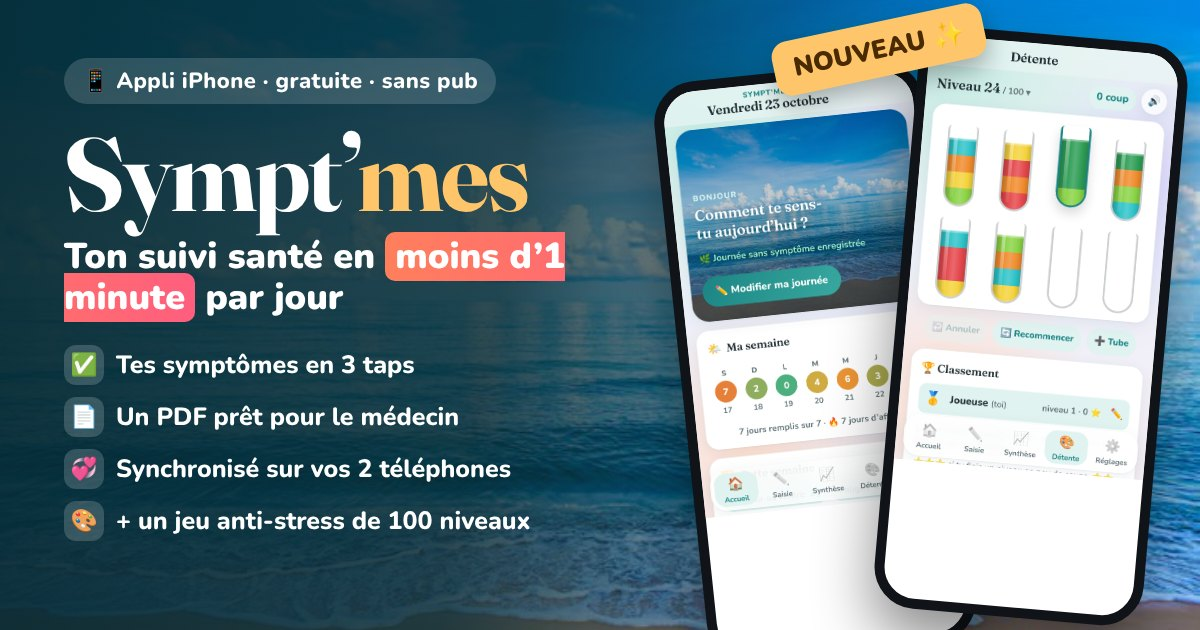
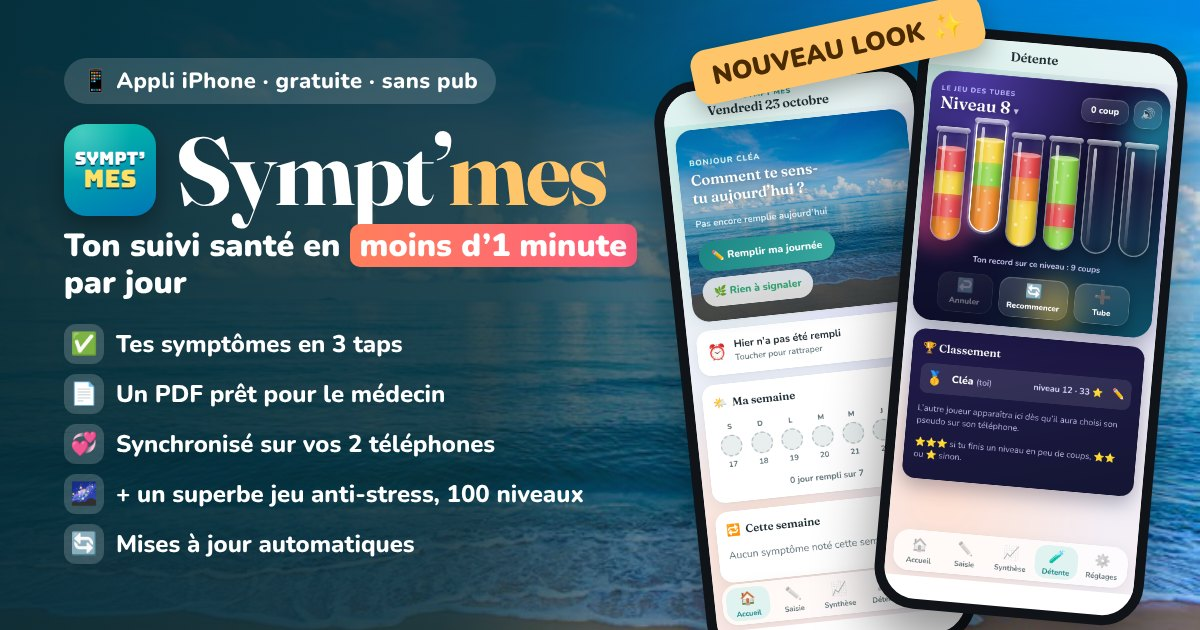
Mises à jour appliquées automatiquement et nouvelle image d'aperçu du lien
- La nouvelle version se recharge toute seule si l'appli vient d'être ouverte
  ou est en arrière-plan ; sinon le bandeau s'affiche et elle s'applique dès
  qu'on quitte l'appli. Vérification aussi toutes les 15 minutes.
- Image d'aperçu refaite (nouvelle icône, nouveau look du jeu), ?v=2 pour
  forcer les messageries à la recharger.

Claude-Session: https://claude.ai/code/session_01A8bavgA94itZTsSni86D7b

diff --git a/js/app.js b/js/app.js
@@ -63,9 +63,7 @@ function renderStatus(st) {
 // Re-rendu après des données reçues de l'autre téléphone, sans gêner la saisie
 let pendingRender = false;
 function safeRender() {
-  const a = document.activeElement;
-  const typing = a && (a.tagName === 'TEXTAREA' || (a.tagName === 'INPUT' && a.type !== 'checkbox'));
-  if (typing || sheetOpen()) { pendingRender = true; return; }
+  if (isTyping() || sheetOpen()) { pendingRender = true; return; }
   pendingRender = false;
   const y = window.scrollY;
   render();
@@ -113,17 +111,36 @@ function startApp() {
 }
 
 // Mises à jour : sur iPhone, l'appli installée reste souvent ouverte en arrière-plan
-// avec l'ancienne version. À chaque retour dans l'appli on vérifie s'il y a du nouveau ;
-// si oui, un bandeau propose de recharger (les données sont déjà enregistrées).
+// avec l'ancienne version. On vérifie au retour dans l'appli et toutes les 15 min.
+// La nouvelle version s'applique toute seule (les données sont déjà enregistrées) :
+// tout de suite si l'appli vient d'être ouverte ou est en arrière-plan, sinon dès qu'on la quitte.
+// Le bandeau reste proposé pour l'appliquer sans attendre.
+const isTyping = () => {
+  const a = document.activeElement;
+  return !!a && (a.tagName === 'TEXTAREA' || (a.tagName === 'INPUT' && a.type !== 'checkbox'));
+};
+
 function setupUpdates() {
   if (!('serviceWorker' in navigator)) return;
   const hadController = !!navigator.serviceWorker.controller;
+  let shownAt = Date.now();
+  let reloadPending = false;
   navigator.serviceWorker.register('./sw.js').then((reg) => {
     if (!reg) return;
-    document.addEventListener('visibilitychange', () => { if (!document.hidden) reg.update().catch(() => {}); });
+    const check = () => reg.update().catch(() => {});
+    document.addEventListener('visibilitychange', () => {
+      if (document.hidden) { if (reloadPending) location.reload(); return; }
+      shownAt = Date.now();
+      check();
+    });
+    setInterval(() => { if (!document.hidden) check(); }, 15 * 60 * 1000);
   }).catch(() => {});
   navigator.serviceWorker.addEventListener('controllerchange', () => {
-    if (hadController) showUpdateBanner();
+    if (!hadController) return;
+    const justOpened = Date.now() - shownAt < 20 * 1000;
+    if (document.hidden || (justOpened && !isTyping() && !sheetOpen())) { location.reload(); return; }
+    reloadPending = true;
+    showUpdateBanner();
   });
   $('#update-btn').addEventListener('click', () => location.reload());
 }

diff --git a/index.html b/index.html
@@ -16,12 +16,12 @@
   <meta property="og:title" content="Sympt'mes : ton suivi santé en moins d’1 minute par jour">
   <meta property="og:description" content="Symptômes en 3 taps, PDF prêt pour le médecin, synchronisé sur vos 2 téléphones… et un jeu anti-stress.">
   <meta property="og:url" content="https://khylianb.github.io/sympt-mes/">
-  <meta property="og:image" content="https://khylianb.github.io/sympt-mes/img/apercu.jpg">
+  <meta property="og:image" content="https://khylianb.github.io/sympt-mes/img/apercu.jpg?v=2">
   <meta property="og:image:width" content="1200">
   <meta property="og:image:height" content="630">
   <meta property="og:locale" content="fr_FR">
   <meta name="twitter:card" content="summary_large_image">
-  <meta name="twitter:image" content="https://khylianb.github.io/sympt-mes/img/apercu.jpg">
+  <meta name="twitter:image" content="https://khylianb.github.io/sympt-mes/img/apercu.jpg?v=2">
   <link rel="manifest" href="manifest.webmanifest">
   <link rel="icon" href="icons/icon-192.png?v=2">
   <link rel="apple-touch-icon" href="icons/apple-touch-icon.png?v=2">

diff --git a/js/changelog.js b/js/changelog.js
@@ -2,6 +2,13 @@
 // La première entrée donne le numéro de version de l'appli : en ajouter une à chaque mise à jour.
 export const CHANGELOG = [
   {
+    version: '1.5.1',
+    items: [
+      '🔄 Les mises à jour s’installent toutes seules, plus besoin de toucher « Mettre à jour »',
+      '🖼 Réglages plus compacts : photo et mascotte en miniature',
+    ],
+  },
+  {
     version: '1.5.0',
     items: [
       '🌌 Le jeu des tubes fait peau neuve : ambiance de nuit, tubes en verre',

diff --git a/sw.js b/sw.js
@@ -1,6 +1,6 @@
 // Service worker : l'application fonctionne hors ligne.
 // Incrémenter VERSION à chaque mise à jour du code pour rafraîchir le cache.
-const VERSION = 'v32';
+const VERSION = 'v33';
 const CACHE = `symptmes-${VERSION}`;
 const FILES = [
   './',
